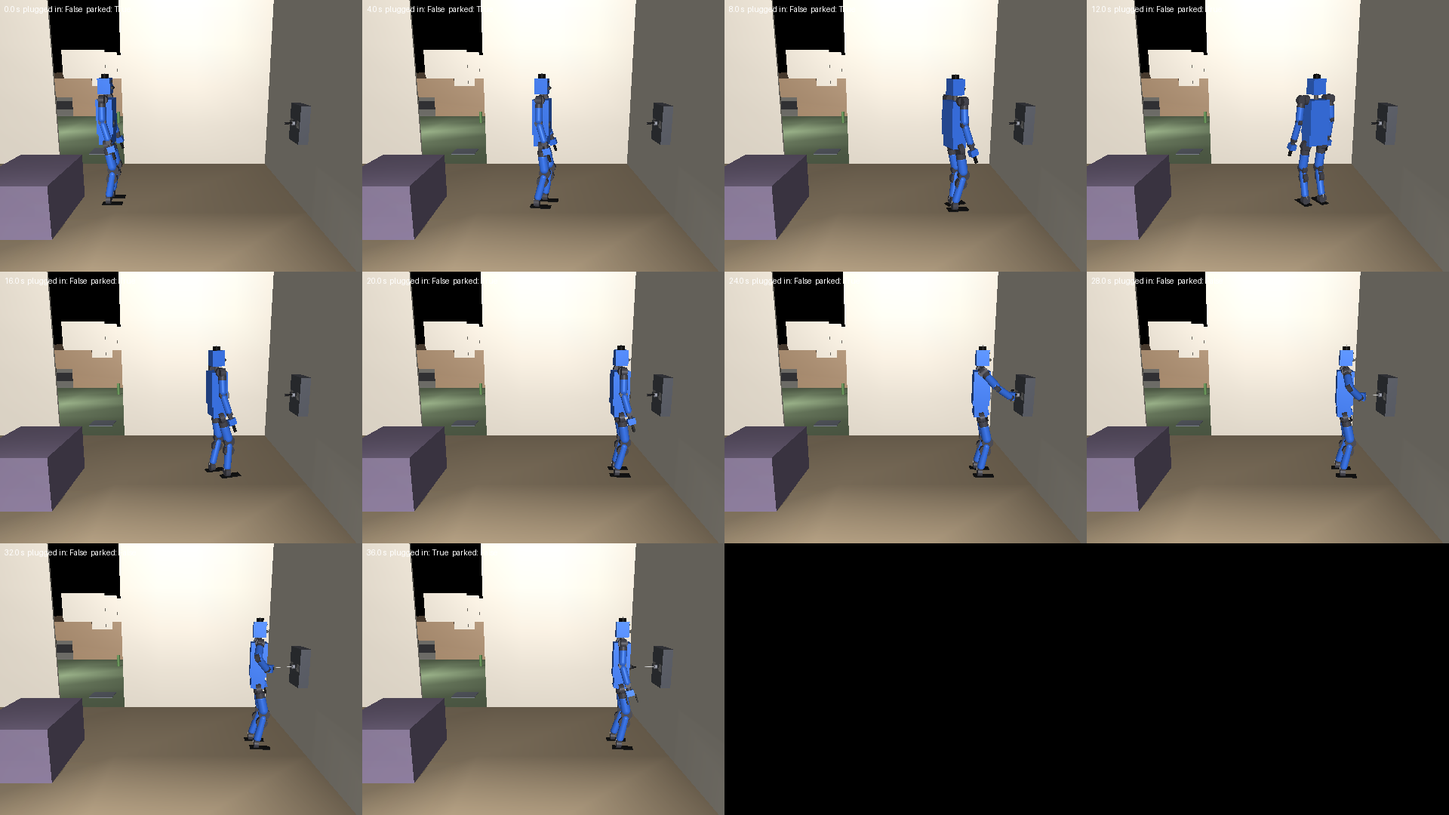
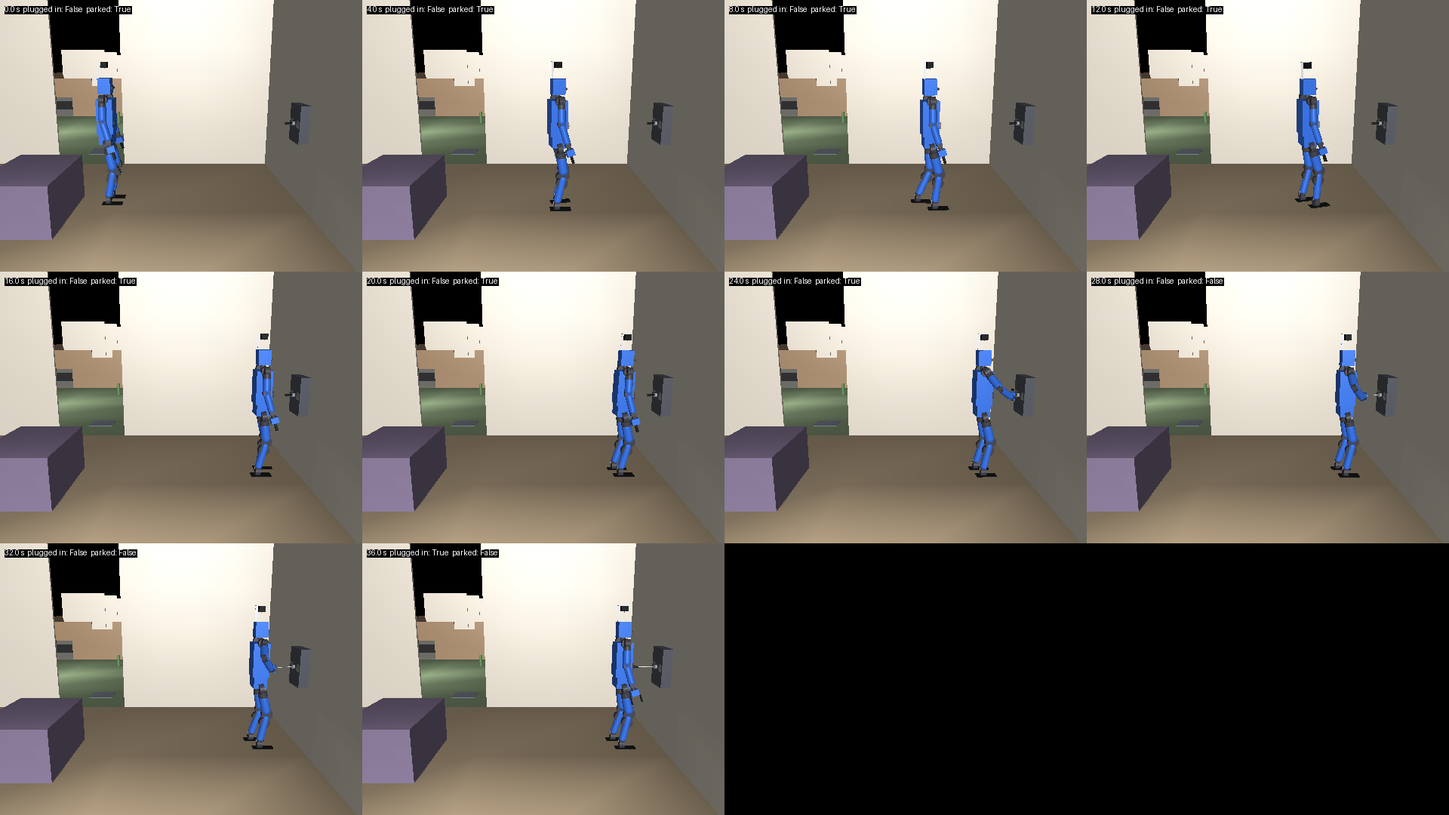
SimNotes, Observatory.md and CLAUDE.md: the station found from far off, measured -- 118 of 123 against staging's 14 from the same starts, 24 of 27 explored first against 2, a fall's get-up holding the belief, the heading at rest read before and after; the lost filmstrip redrawn and the far one found

diff --git a/CLAUDE.md b/CLAUDE.md
@@ -267,7 +267,7 @@ save a filmstrip PNG named after the script.
 | `scripts/grid_spike.py` | #558: what a robot's map costs as the world grows, at 1-4x today's cells (the bounds grown round the house), each scale its own process, through the humanoid's own code: each scan's, frame's and plan's work, the explore's mask and A*, the matcher's field, the wire's PNG, `world.npz`, memory, on #215's synthetic grid and the house laid by the robot's own senses; `--walks [SIM_S]` the humanoid pair walking #507's routes at each scale; `--scales`, `--repeat`, `--no-table`, `--out` |
 | `scripts/determinism_spike.py` | is the world the same world twice? N scripted days hashed, first divergence attributed to GPU / decoder / raycast; `--pair` (`--fall-at`, `--drain-at`); `--compare DIR`; `--resume-at T` flies a day against one saved and carried on in a new process (#345); `--no-economy`, `--sequential`, `--nthreads` |
 | `scripts/make_way_spike.py` | #415 on two legs (#559): the humanoid pair in the house on true-floor maps, one robot resting standing in a doorway and the other walking through it, one process a scene: the walk's end, the step aside (how far, how long, why it stopped), touches and falls; `--before` nobody asks, `--finished` the resting robot's day is over, `--scene A,B`, `--drift`/`--drift-walker` a map laid off the world, `--standing S`, `--near-field` |
-| `scripts/station_spike.py` | the humanoid's charging station (#559 stage 2; SimNotes "The humanoid's charging station"): `--approach [--n N] [--parallel P]` docked and unplugged or why not from seeded starts round the standoff, one process a trial; `--seats` started at 140 seats over what the seat check accepts: plugged in and unplugged or why not; `--lost [--n N]` a fresh robot 2 m out, its belief set 0.4-1 m wrong: the loop's charge path, its lost search and the fix; `--hold [--seconds S]` plugged in: the charger's watts against what it draws; `--fall` shoved over plugged in: the breakaway, the plug home, the robot up; `--walk-in [--explore 120,240]` explored, walked out to 8 places across the house on its own map, then the loop's own `go_charge`; `--view [plug\|fall\|lost]` in the viewer, looped (MUJOCO_GL unset); `--strip [plug\|fall\|lost]` its filmstrip, `station_spike.png` (`_fall`, `_lost`) |
+| `scripts/station_spike.py` | the humanoid's charging station (#559 stage 2; SimNotes "The humanoid's charging station"): `--approach [--n N] [--parallel P]` docked and unplugged or why not from seeded starts round the standoff, one process a trial; `--seats` started at 140 seats over what the seat check accepts: plugged in and unplugged or why not; `--lost [--n N]` a fresh robot 2 m out, its belief set 0.4-1 m wrong: the loop's charge path, its lost search and the fix; `--lost --far [--from near,house,street] [--n N] [--explore S]` its belief set 1-5 m and 5-20 deg wrong (#572), 2 m out, in the house's rooms and across the street, explored first or not, and how each charge ended (`--lost-table ROWS` its table again); `--reach` how far its head's camera and its colour imager read the station's tags, out of its face and off its axis, and the head's fit of the pair (#572 stage 3); `--hold [--seconds S]` plugged in: the charger's watts against what it draws; `--fall` shoved over plugged in: the breakaway, the plug home, the robot up; `--walk-in [--explore 120,240]` explored, walked out to 8 places across the house on its own map, then the loop's own `go_charge`; `--view [plug\|fall\|lost]` in the viewer, looped (MUJOCO_GL unset), `--lost-from P --lost-off X,Y,DEG` the lost scene from elsewhere, the camera over the robot; `--strip [plug\|fall\|lost]` its filmstrip, `station_spike.png` (`_fall`, `_lost`) |
 | `scripts/solve.py --feature drawer` | ladder A of #264 on the humanoid's hands (#559): a hand job (`--feature drawer\|door\|cube\|chest`: `open_drawer`, `open_door`, `place_cube`, `open_chest`) offered on the storeroom's counter, its prop drawn (`--draw K`) and set out, claimed, the reference's two procedures (`challenge/solutions.py`) run as the robot's, `done`, graded on the seam; a fresh humanoid on a fresh map from the station (`--from station\|store`, or `tour`: flight k from the next of eight places across the house), `--n` draws a process each (`--jobs`, `--into DIR`), `--view`, `--strip` (`--strip-out PATH`); filmstrip `solve.png` |
 | `scripts/board_png.py` | a whiteboard's ink as a PNG from the boards state file or a recording. ⚠ +lat is the viewer's LEFT, as in the site's `surfaces/board.ts`; the test pins it because every figure the quadruped's pen drew is symmetric |
 | `scripts/humanoid_spike.py` | the humanoid (#507; SimNotes "The humanoid body", "The humanoid stands, reaches and grasps", "The humanoid behind Body", "The humanoid walks", "The humanoid climbs, falls and gets up" and "One walker that sees the ground", Parts.md "The humanoid body"): `--view body` the body held up on a gantry in the house, each joint through its range, then the grippers; `--view stand` its standing policy shoved, crouching and bowing, `--view reach` a hand to a counter, a high shelf, a low shelf and the floor through `Body`, its get-up loaded, `--view grasp` a drawer's handle gripped and pulled, `--view pull` a locked handle pulled at `pull`'s most, 20 N, each way (#544), `--view bar` the `pull` verb on it at its most, back, up, forward and down (#547), `--view feel` 20 N staged at a held-out hand, what its arm and its whole body read (#547), `--view demo` the chest's knob on a counter found by its tag, reached and gripped through `Body`, `--view walk` living room to kitchen and back on its own map, `--view rough` the walker that sees the ground (not served) across doorsteps, paving, a slope and blocks, `--view stairs` it up the house's flight on its own map, round on the landing and down, `--view fall` shoved over three ways, its get-up taking each fall, `--view getup` up off its back, its front and its side (`--strip SCENE` the filmstrip, `--policy NPZ` another standing policy, `--getup-policy NPZ`); `--mass` beside the T2's published model, `--torque` held in our physics and the walking, the stairs and the get-up FLOWN, `--thermal`, `--energy`, `--sensors`; `--friction [--write]` its arm joints' friction calibrated in free air beside the sheets', kept in `models/humanoid_friction.json`; `--shove` the shoves it stands through, `--envelope` the reach flown floor to over the head, `--hold` a locked handle pulled harder, `--pulls` a hand pulling each of 14 ways at a counter's height until it falls, `--bar` the force move on the locked handle each way at 10 and 20 N (`--oracle` closed on its true force: the loop's floor), `--feel` what its arm and its whole body read of 20 N staged at the grip, still and swaying (#547), `--handover [N]` the walk's hand-over at a standstill through `step` (#544), `--demo-table [N]` the demo's set-outs flown through `Body`, `--track` / `--rough [NPZ,...]` the served and any walker asked each command on a bare floor / over a doorstep, paving, a slope and blocks (one that sees the ground on its own map), `--odometry` the leg odometry against the truth, `--climb [NPZ]` flights of five at each riser up and down on the ideal scan and its own map, `--fall [NPZ]` shoved over six ways standing, limp or getting up (how far it reaches lying: the fallen disc's, #580), in five places in the house, and from each bow a reach takes (#520), `--speed [SIM_S]` the real-time multiple of one humanoid and a pair, the same walks in the house (`--profile`); filmstrip `humanoid_spike.png` |
@@ -276,7 +276,7 @@ save a filmstrip PNG named after the script.
 | `scripts/hands_check.py` | #525's capability check: our procedure in the hands' vocabulary for the lid, a drawer, a door's lever and a cube placed (`evaluation.hands_check`), flown at each job's set-outs and graded by its own grader, the bar (6 of 8) written first: `--job J,..`, `--set-outs A-B`, `--jobs`, `--into DIR`, `--read DIR`, `--source JOB` the procedure and its length against the cap, `--view JOB [K]` a flight in the viewer, `--strip JOB [K]` its filmstrip `hands_check.png`; JOB may be a scene (`hands_check.SCENES`): `until`, the lid's lift stopped on its hand's height (#554); `watch`, on where its watch puts the knob (stage 2) |
 | `scripts/practice.py` | #493's graded practice: the mind (`--model`, the deployed by default; `$HF_TOKEN`) writes the humanoid's procedure for the lid, tries it from a fresh set-out, is shown how it ran and the world's grade, and writes again, up to `--attempts` (5) a chest, a fresh robot a chest; the hands' vocabulary (#525; #493's `--pull`, `--verb-tests` and `--path` arms retired, `run.vocabulary` saying which a row flew); `--chests`, `--held-out N` (the frozen commit's seed), `--acquire A-B` the KEPT protocol (practice first, `--until`, `--max-chests`, `--give-up-after`; `--kept FILE` a record's library), `--early-stop` once the bar is out of reach, `--notes` notes and a draft carried, `--no-measure` without the depth camera's `measure` (its own arm), `--unguarded` without a hand's move's stop condition (#554), `--unwatched` without `watch` (its stage 2), `--jobs`, `--into DIR`, `--no-picture`, `--read DIR` the per-task record and what the mind cost |
 | `scripts/lidar_spike.py` | the head's LIDAR (#581; SimNotes "The 3D LIDAR on the head" and "The band served"): `--hidden` what the robot's own body hides of a frame, standing and at each of the reach scene's holds; `--cost [--poses N]` ms a frame in the house, the level ring, the cloud and the band beside a D435 frame; `--probe [--variants ring,band]` #572's static probe on its model (does a scan pin the heading at each outdoor point); `--view` a walk across the street, its map from its points laid flat, the band's returns red and the level ring's blue (MUJOCO_GL unset); `--strip` its filmstrip `lidar_spike.png`. The drift, station and speed instruments fly the band as served (#581's stage 2) |
-| `scripts/humanoid_drift_spike.py` | #572's stage 2 (SimNotes "Where the humanoids get lost"): one humanoid flies the loop's explore, walks the loop's walks across the street to the storeroom and back, and charges; its belief against the truth, the error taken apart as it is made into the gyro's heading, the legs' position, the believed heading's, and the matcher's and the station's corrections, over the flight and by zone, beside the odometry alone and the legs alone; `--seed luca\|rowan\|K` the IMU's and joints' draws, `--start start\|hall`, `--explore S`, `--trips N`, `--rest S`, `--idle-at X,Y [--idle S]` stood idle there first, `--learned` its gyro's offset taken off its heading as a zero-rate update that had learned it would, `--no-charge`, `--out`; `--table RUN.json ...` runs side by side and by zone. The stage's other half is `station_spike.py --lost --far [--from near,house,street] [--n N] [--explore S]`: its belief set 1-5 m and 5-20 deg wrong, 2 m out, in the house's rooms and across the street, and how each charge ended; `--view lost --lost-from P --lost-off X,Y,DEG` (or `--strip lost`) its scene, the camera over the robot |
+| `scripts/humanoid_drift_spike.py` | #572's stage 2 (SimNotes "Where the humanoids get lost"): one humanoid flies the loop's explore, walks the loop's walks across the street to the storeroom and back, and charges; its belief against the truth, the error taken apart as it is made into the gyro's heading, the legs' position, the believed heading's, and the matcher's and the station's corrections, over the flight and by zone, beside the odometry alone and the legs alone; `--seed luca\|rowan\|K` the IMU's and joints' draws, `--start start\|hall`, `--explore S`, `--trips N`, `--rest S`, `--idle-at X,Y [--idle S]` stood idle there first, `--learned` its gyro's offset taken off its heading as a zero-rate update that had learned it would, `--no-charge`, `--out`; `--table RUN.json ...` runs side by side and by zone; `--falls [--fall-explore S]` shoved over six ways after an explore, a process each: how far its get-up moved it and its belief, and the belief's error as it fell, as it stood and after (#572 stage 3). The stage's other half is `station_spike.py --lost --far` |
 
 - **The body's training stack lives in `training/`, a uv project of its own** (#377, #507; `training/README.md`): the humanoid's tasks in `humanoid_train/` -- `Pluggy-Humanoid-Stand`, `-Walk`, `-Walk-Rough`, `-Walk-Seeing`, `-Walk-Seeing-Fine`, `-Stairs`, `-Getup`, `-Getup-Head` -- registered and exported by `quad_train`'s one entry point (`python -m quad_train.train <task>`; `python -m quad_train.export ... --task`, which records the joints it drives and their gains; the quadruped's tasks are at `quadruped-final`): mjlab 1.5.x (it pins `mujoco ~=3.10.0`, the served sim's), reading the body from `models/humanoid.{xml,json}` (`python -m pluggybot.humanoid.model` writes both; mjlab caps numpy below pluggybot's, so the two never share an environment). ⚠ Running a policy loads none of torch, jax, warp, onnx or mjlab: it reaches the served sim as an `.npz` that `quad_train.export` checks against its ONNX before writing, run by `humanoid/policy.py` in numpy. ⚠ The joint DRIVERS are MuJoCo's position-mode `dcmotor` (#385), the PD and the envelope in C, commanded as the RobStrides' FOC drivers are in MIT mode (`humanoid/drivers.py`): every command carries its gains — a policy's are its own, an arm's the default gains scaled by `ARM_GAIN_SCALE`, `limp()` holds nothing — so the policies and the arms share one body. The default gains are ONE definition, `actuator.driver_gains`, which `training/` reads from `humanoid.json`. `training/pod.sh` rents a GPU to train on, or CPUs to fly a batch (`create-cpu`), on Vast.ai through its CLI, or on Runpod over the REST API with `PROVIDER=runpod` (#510; `runpodctl pod create` needs a GraphQL-writable key); a pod's id says whose it is, and a card is picked by what a million steps cost (`training/README.md`). ⚠ The `vastai` CLI exits 0 when it is refused, and `destroy` says nothing under `--raw`: read the JSON and the instance, never the exit code. ⚠ On Runpod a POST to `/v1/pods` with an EMPTY body CREATES a pod: every field has a default.
 - ⚠ **A batch of flights runs on a rented pod's CPUs or under a memory cap, never bare on the dev box** (#469: six house worlds at once took it into swap and its desktop down overnight, 2026-10-06): `training/pod.sh create-cpu` → `setup-sim` (the commit, never the working tree) → `batch` with `--jobs` one under the share `setup-sim` reports (a Vast share is a hard quota) → `pull-batch`, then `delete`; locally, `systemd-run --user --scope -p MemoryMax=12G -p MemorySwapMax=0 ...`. A pool of flights gives each its own process (`maxtasksperchild=1`: a world dropped in a reused worker is held until the cycle collector runs), and results go under `~`, never `/tmp`, which a reboot wipes.
@@ -495,10 +495,17 @@ save a filmstrip PNG named after the script.
   behind the seat), straight across where that hand's way in is barred; the
   port read once the hand holds the plug. ⚠ A SQUEEZE ON A PLUG A CATCH
   HOLDS BEGINS AT 5 N: shut at once, the first pad pushed a seated plug off
-  its catch. ⚠ LOST, IT STEPS IN BY ITS LIDAR, NEVER ITS BELIEF
-  (`HumanoidBody.lost_routine`): to the wall 0.8 m ahead, looks round, steps
-  along the wall; a look that fits the station is a fix (`_fix_at`, the
-  anchor's too). ⚠ A SQUEEZE HOLDS THE PLUG ONLY AT THE JACK'S WIDTH
+  its catch. ⚠ LOST, IT LOOKS BY ITS HEAD'S CAMERA AND WALKS NEARER BY WHAT
+  IT SAW, NEVER BY ITS BELIEF (`HumanoidBody.lost_routine`, #572 stage 3;
+  SimNotes, "The station found from far off"): a look round where it
+  stands, then viewpoints outward from where it believes the station is (a
+  find's search), and seen, to `charge.NEAR_M` out of the station as the
+  look placed it (`charge.rough`); a look that fits it near (`near_fit`,
+  the colour imager's or within 1.6 m the head's) is a fix (`_fix_at`, the
+  anchor's too), ⚠ NEVER A FAR ONE: past 2 m the pair's facing reads up to
+  29 deg off. Searched too after walks that never got there (unless the other
+  robot stopped them), bounded by the pack; the walk itself is given 6 s a
+  metre of the straight line (`CHARGE_WALK_S_M`). ⚠ A SQUEEZE HOLDS THE PLUG ONLY AT THE JACK'S WIDTH
   (`PLUG_GAP_TOL_M`): wider is the station's boss, and the hand draws back
   along the plug and grips again. ⚠ THE UNPLUG LETS GO AT THE CUP'S MOUTH
   (`CUP_SHORT_M`): carried to the seat, the plug was driven into the boss
@@ -506,18 +513,17 @@ save a filmstrip PNG named after the script.
   (`step_routine`, #581's stage 2): the band's matcher at the station, its
   corrections walked as steps, stopped one 3.6 cm inside the seat, and the
   walker cannot back up so little. Measured: plugged in from 140 of 140 seats over the
-  seat check (110 before), unplugged 140 of them; 15 of 15 docked and
-  unplugged from round the standoff; 15 of 16 docked from across the house
-  (10 before); 16 of 16 with their belief set 0.4-1 m wrong (SimNotes),
-  and ⚠ 5 of 60 set 1-5 m and 5-20 deg wrong: ITS LOST SEARCH REACHES ABOUT
-  A METRE -- begun with the belief within 1.1 m it found the station 4 of 4
-  times, from 1.5 m or more 0 of 50 -- and a belief comes home past the
-  matcher's reach from in and beyond the middle street, the house's map then
-  refusing it every scan (#572 stage 2; SimNotes, "Where the humanoids get
-  lost"); with the band (#581's stage 2, after its review) 32 of 33 from
-  round the standoff, 48 of 52 with the belief 0.4-1 m wrong and 16 of 16
+  seat check (110 before), unplugged 140 of them; with the band (#581's
+  stage 2, after its review) 32 of 33 from round the standoff and 16 of 16
   from across the house, most misses a step 4-5 cm inside the seat, which
-  the walker cannot back off, one a search begun 0.94 m off; 339 W net; the reserve 18 Wh (17.5 before the Mid-360S's 6.2 W, #581).
+  the walker cannot back off (a dock that never got in goes again from the
+  standoff, once a charge, #572 stage 3); ⚠ ITS BELIEF SET 1-5 M AND 5-20
+  DEG WRONG, 118 of 123 docked and, explored first on a map laid through it,
+  24 of 27 (staging, the same starts: 14 and 2), every search begun within
+  5 m of the truth finding the station (107 of 107), and 8 of 40 begun
+  further off, across the street, running out of their 600 s outside the
+  house's south fence (#572 stage 3; SimNotes, "The station found from far
+  off"); 16 of 16 with it 0.4-1 m wrong; 339 W net; the reserve 18 Wh (17.5 before the Mid-360S's 6.2 W, #581).
 - **The humanoid's LIDAR is a Livox Mid-360S, upside down over its head,
   and its map is laid from its points laid flat** (#581; `perception/lidar.py`,
   `HumanoidSpec.lidar_rise`, `HumanoidMission._scan`/`maps`,
@@ -556,9 +562,10 @@ save a filmstrip PNG named after the script.
   the steepest rings turn past straight down onto the bearings behind, and
   a low box 2 m behind was cleared on 8 bearings of 9). ⚠ ITS RAYS LEAVE
   10 cm OVER THE HEAD'S TOP, 5 mm under the unit (cast from inside it, every
-  ray hit it). The level ring stays, for the lost search's wall ahead
-  (`HumanoidBody._wall_ahead`). ⚠ NO CUTOFF ON THE CAST: MuJoCo culls a
-  plane by its centre.
+  ray hit it). The level ring stays for the instruments and as the
+  Navigator's default scan; nothing the humanoid decides reads it since
+  #572's stage 3. ⚠ NO CUTOFF ON THE CAST: MuJoCo culls a plane by its
+  centre.
 - **A humanoid is told its own body and world** (#559 stages 3 and 5;
   `Menu.kinds`, `hands_procedure_rule`, `steps.served_hand_facts`;
   `tests/test_humanoid_words.py`; Overseer.md §8b): ⚠ ITS WORDS ARE THE ONLY

diff --git a/docs/SimNotes.md b/docs/SimNotes.md
@@ -3537,22 +3537,19 @@ tile every 1.5 s (`station_spike.py --strip plug`)](figures/humanoid_station.png
 ![Lost and found by its station: a humanoid 2 m out, its belief set 0.7 m
 nearer the wall than it is, walks to where it believes the standoff is
 (1.45 m off the station's face, the tags above its colour camera), sees
-nothing, steps in by its LIDAR, finds the tags, puts its belief right off
-them, and walks in again and plugs itself in, a tile every 4 s
-(`station_spike.py --strip lost`)](figures/humanoid_station_lost.png)
+nothing, looks round by its head's camera and sees the station, walks
+nearer by what it saw, puts its belief right off a look there, and walks
+in again and plugs itself in, a tile every 4 s (`station_spike.py --strip
+lost`)](figures/humanoid_station_lost.png)
 
 **Lost.** No tags in sight from the standoff the belief walked it to, the
 robot is lost (#476's rule), and the station, commissioned as the dock was,
-puts it right: facing where it believes the station is, it steps in until
-its LIDAR reads the wall 0.8 m ahead -- never by its belief, which is what
-is wrong; from viewpoints set on a belief 0.7 m off toward the wall, every
-look was further from the station than 1.07 m -- and looks ahead, 34 and 63
-deg either side (the camera sees 34.5 either side of its axis), turning to
-a lone tag of the two where it sees one, then from a step 0.5 m along the
-wall each way. A look that fits the station is a FIX (`HumanoidBody._fix_at`,
+puts it right: a look that fits the station is a FIX (`HumanoidBody._fix_at`,
 the same as `anchor_at_dock`'s): the belief moved, and past the matcher's own
 search the map laid on the old one dropped, and the loop's walk to the
-standoff goes again on it.
+standoff goes again on it. How it looks for the station is #572's stage 3
+("The station found from far off"): by its head's camera, never by its
+belief.
 
 **Measured** (`scripts/station_spike.py`, the house, one humanoid):
 
@@ -3565,7 +3562,7 @@ standoff goes again on it.
 | the loop's own walk and plug-in (`energy_spike.py`) | 345.2 W net into the pack (energy.json) |
 | the reserve (`energy_spike.py --reserve`) | 13.72 Wh over 44.62 m to the garden doorway, 307.6 mWh/m; carried 17.5 Wh |
 | `--walk-in`: a fresh humanoid explores 120 or 240 s, walks on its own map to each of 8 places across the house (the bedroom, hall, kitchen, workshop, garden and south garden; the lobby and lab across the street), and the loop's own `go_charge` takes it to the station | **docked 15 of 16**, each in 46-131 s, 10 on the first push; its belief 0.04-0.51 m off where it walked to (1.07 m at the lobby after 120 s, which docked on its third push), 0.01-0.42 m once docked, before the charge's own fix; no falls (10 of 16 before) |
-| `--lost`: a fresh humanoid 2 m out facing the station, its belief set 0.7 m wrong each way and 12 drawn 0.4-1 m off and up to 5 deg turned, the loop's own `go_charge` | **docked 16 of 16**: the 14 that saw no station searched and found it in 4-62 s, their fix putting the belief within 0.11 m; the two whose walks ended near enough docked as they were, their fix the charge's own |
+| `--lost`: a fresh humanoid 2 m out facing the station, its belief set 0.7 m wrong each way and 12 drawn 0.4-1 m off and up to 5 deg turned, the loop's own `go_charge` | **docked 16 of 16**: the 14 that saw no station searched and found it in 4-62 s, their fix putting the belief within 0.11 m; the two whose walks ended near enough docked as they were, their fix the charge's own (the search as it was then, stepping in by its LIDAR; by its head's camera, #572's stage 3, 15 of 16) |
 
 **What is not yet.** One walk-in in 16 pushed four times and the port took
 none: where the plug sits in the jaws still misses pushes now and then. The
@@ -3840,26 +3837,16 @@ from the south garden, outside the very wall the station hangs on (the
 figure), 10 from elsewhere in the living room, 10 from the east garden, and
 the rest from the bedroom and the sidewalks and streets.
 
-**What is true now.** Indoors the humanoid's belief holds within 0.1-0.3
-m: its LIDAR fixes every direction there, and the matcher takes off its
-gyro's offset, whatever it is, and its legs' 0.2-2 cm a metre. Outdoors its
-LIDAR sees the buildings' walls alone -- along the sidewalks one at a time,
-the matcher holding the direction along it to odometry, and in the middle
-street none -- and its belief comes home off by more than the matcher's
-search there three ways: walking along the facility's outer walls, a
-heading carried across the street, and standing still where nothing is
-matched; and anywhere, a fall, whose get-up its odometry walks. Back in
-the house, the map refuses it every scan and nothing puts it right but the
-station, whose lost search finds it only from within about a metre; from
-across the street the charge's walks run out of time first.
-
-**Not done** (#572's stage 3, and its stage 4): a search that finds the
-station from further off than a metre, and a charge's walk given the time
-a walk across the street takes; walks to the facility that go in by its
-gates, or a station there (#560's in the research center); the heading held
-while the robot stands where nothing is matched (a zero-rate update, as
-the quadruped's while it lies); its odometry held while a get-up has its
-legs; and why the wide search took back none of them.
+**What was true then, on the C1.** Indoors the belief held within 0.1-0.3
+m, the matcher taking off the gyro's offset and the legs' 0.2-2 cm a metre;
+outdoors the LIDAR saw the buildings' walls alone, and the belief came home
+past the matcher's search by walking along the facility's outer walls, a
+heading carried across the street, standing where nothing was matched, or a
+fall whose get-up its odometry walked; the lost search found the station
+only from within about a metre. What is true now: #581 gave the LIDAR the
+fences (29 of 30 drift flights docked, "The band served"), and #572's stage
+3 gave the search its head's camera, held the odometry through a get-up and
+the charge's walk its time ("The station found from far off").
 
 ## The 3D LIDAR on the head (issue #581, stage 1)
 
@@ -4346,11 +4333,165 @@ head's dearer drawer, door and chest, as its rule says.
 
 **Not done.** A far fence's intermittent ring (above); the walker's seat
 (above); and #581's live reading, a day of the pair with neither robot
-lost outdoors, which opens with the deploy (Observatory.md). #572's
-stage 3 should read this one: a bowed robot's scans now count, so its
-heading at a counter is held by the matcher, and a zero-rate update may be
-needed only where nothing is matched. The world's height map as the store,
-which the grid becomes a projection of, is its own issue.
+lost outdoors, which opens with the deploy (Observatory.md). The world's
+height map as the store, which the grid becomes a projection of, is its
+own issue. (#572's stage 3 read this one for the heading at rest: no
+zero-rate update is needed, "The station found from far off".)
+
+## The station found from far off (issue #572, stage 3)
+
+**What is true now.** A humanoid that does not find its station where its
+belief puts it -- none in sight from the standoff, or no walk there got
+there -- looks for it by its head's camera and walks nearer by what it saw
+(`HumanoidBody.lost_routine`): a look round where it stands, then
+viewpoints outward from where it believes the station is, and once seen,
+to a metre out of the station as that look placed it, where a look fits it
+near enough to put the belief right (`_fix_at`). Its belief set 1-5 m and
+5-20 deg wrong -- 2 m out, from the house's six rooms and across the street
+-- it docked 118 of 123 (staging, from the same starts, 14); explored
+first, laying its map askew through that belief, 24 of 27 (staging 2).
+Begun within 5 m of the truth, its search found the station 107 times in
+107. The walk to the station is given the time its length takes, a dock that
+saw the station and never got in goes again, and a fall's get-up walks no
+belief. The heading needs no hold at rest: with the band, Rowan's draws
+stood 180 s in the middle street and their heading moved 0.1 deg (9 on the
+C1).
+
+![Found from behind its station's wall: a humanoid 2 m out, its belief set
+2 m and 12 deg wrong (stage 2's figure, "Where the humanoids get lost"),
+walks to where it believes the standoff is -- truly the south garden,
+outside the station's own wall -- looks round and searches the garden's
+viewpoints round where it believes the station is, comes in by the garden
+door at about 150 s, sees the station, walks nearer by what it saw, puts
+its belief right (1.7 m and 11 deg) and plugs itself in at 209 s, a tile
+every 16 s (`station_spike.py --strip lost --lost-from station --lost-off
+-1.606,-1.192,12`, every other tile)](figures/humanoid_station_far_found.png)
+
+**What its cameras read of the station** (`station_spike.py --reach`: set
+out of the station's face and off its axis, facing it, a decode of each
+camera; the belief is the truth there, so what is measured is the look).
+The colour imager the dock looks by reads the pair within 1 m and nothing
+past 1.25 m -- the tags rise out of its view -- and it was all the search
+had: from 1.5 m off and further it found the station 0 times in 43 (stage
+2). The head's navigation camera, pitched for the walls' signs, reads both
+60 mm tags square-on from 0.8 m to 4.5 m, one from 30 deg off the station's
+face to 5 m (the parked plug hides the far tag from about 20 deg), and
+from 50 deg only within 1.5 m:
+
+| out of the face | tags the head's camera read, 0 / 15 / 30 / 50 deg off its axis | the pair fitted off them: its facing, its place |
+|---|---|---|
+| 0.8-1.0 m | 2 / 2 / 2 / 1-2 | within 0.7 deg, 8 mm |
+| 1.25-1.5 m | 2 / 2 / 1 / 1 | within 1.9 deg, 10 mm |
+| 2-2.5 m | 2 / 2 / 1 / 0 | 1.0-5.5 deg, 7-54 mm |
+| 3-4.5 m | 0-2 / 0-2 / 1 / 0 | 0.6-28.6 deg, 7-61 mm |
+| 5 m | 0 / 0 / 1 / 0 | |
+
+A far look says where the station is to a few centimetres and which way
+it faces to tens of degrees: the pair is 18 cm across, and a centimetre of
+range between its two tags turns it 3 deg.
+
+**The search** (`charge.LOST_*`, `NEAR_*`):
+
+- *A look round where it stands*, a decode every 60 deg (the places'
+  look-around, `humanoid.places`): lost within a room of it, the robot sees
+  the station from there.
+- *Then viewpoints outward from where it believes the standoff is*, over
+  its own map, the nearest by the walk first, a look round at each, its
+  walks stopping as soon as a decode shows a tag (`next_viewpoint`, the
+  find's search; `HumanoidPlaces.see_station` notes every look of the head
+  that shows one). An askew belief puts the station's believed place in
+  another room or the garden, and the true one a walk or two away. ⚠
+  ROUND THE STATION'S BELIEVED PLACE, NEVER ROUND THE ROBOT: lost 5 m away,
+  a search round itself walks off from the station.
+- *Seen, nearer by what it saw* (`_near_station_routine`): to `NEAR_M` (1
+  m) out of the station as the newest look placed it (`charge.rough`: the
+  pair fitted, or one tag where it is and facing as its own rotation says,
+  either never more than 60 deg off the way it was seen from), facing it,
+  and a look of the colour imager and of the head's camera. ⚠ NEVER A FIX
+  OFF A FAR LOOK: put right 20 deg wrong, the robot lays its map askew
+  again. A look that fits the station there -- the colour imager's, or the
+  head camera's with both tags within 1.6 m (`near_fit`) -- is the fix.
+- *Bounded*: `LOST_PATIENCE_S` (600 s), or the pack empty
+  (`HubLifecycle._search_routine`); seen and never near after two rounds of
+  four tries, it says so (`seen, never near`).
+
+**Walks that never got there, and their time** (`HubLifecycle.
+go_charge_routine`). Five of stage 2's lost flights never searched, their
+walks to where they believed the standoff was finding no route through a
+map laid askew: two walks that gave up anywhere are a robot lost too,
+searched for once from where they ended, unless the other robot stopped
+them. The walk itself is given 6 s a metre of the straight line, at least
+the 90 s it had (`CHARGE_WALK_S_M`): home from the storeroom, 22 m in a
+straight line, #581's drift flights walked 70-82 s and up to 117. And a
+dock that saw the station and never got in goes again from the standoff,
+once a charge: 6 of the 117 stations found in the first sweep were never
+got in, the walker's step 4-5 cm inside the seat, which it cannot back off
+(#581, "The band served").
+
+**A fall** (`HumanoidMission._after_physics`; `humanoid_drift_spike.py
+--falls`: shoved over six ways, 300 N for 0.3 s, after a 120 s explore). The
+odometry stepped while the get-up policy had the legs, following a
+tumbling body's feet: a fall walked the belief 1.7-2.1 m in stage 2's
+flights and Luca's 3.7 m live, past the wide search's 2 m. It is held
+through the get-up, and stood, its planted foot is read afresh -- the foot
+planted before the fall counted the whole get-up's move at once. Luca's
+draws in the workshop and Rowan's in the garden, staging's code and this
+stage's, 9 of 12 stood each (three wedged in the workshop and the garden
+were still getting up at 40 s, on either):
+
+| | staging | the odometry held |
+|---|---|---|
+| the body moved during the get-up | 0.20-1.33 m | the same |
+| the belief moved during the get-up | 0.47-2.10 m | 0.00 |
+| the belief off as it stood | 0.49-2.39 m | 0.07-1.58 |
+| 5 s on | within 0.09 m | within 0.07 |
+
+What a held belief is off by as it stands is what the get-up moved the
+body and what the stagger before the fall left (the legs track a stagger
+under a shove only to 0.1-1.0 m); the matcher's searches took every one
+back within 5 s, the wide search the furthest (`relocated`). Held, the
+belief can be no further off than the fall carried the body; walked, it
+went 3.7 m live.
+
+**The heading at rest, read before and after** (stage 2 asked for it to be
+read first). Rowan's draws stood 180 s in the middle street: on the C1 its
+heading went from +0.4 to +9.2 deg -- its gyro's offset, nothing matched --
+and its next walk passed the facility's gate a metre off and ended 6.2 m
+off. With the band (staging 44f28e4) it went from -0.06 to +0.08 deg,
+every scan matched, and both its flights docked; with the offset taken off
+(`--learned`), 0.81 to 0.81. The band's matcher takes the offset off
+wherever it stands, bowed at a counter too: no zero-rate update.
+
+**Measured** (`station_spike.py --lost --far`, flown on Vast CPU pods, each
+trial a process; staging is 44f28e4, both with the workshop's start moved
+off its table -- stage 2's put the robot inside it):
+
+| | staging | this stage |
+|---|---|---|
+| belief 1-5 m and 5-20 deg wrong: 2 m out (15), the house's six rooms (72), across the street (36) | **14 of 123** docked; 5 never searched, their walks out of time | **118 of 123**; every station found was plugged into |
+| ...explored 120 s first, its map laid through the wrong belief: the rooms (18), across the street (9) | **2 of 27** | **24 of 27** |
+| found, where the search began within 5 m of the truth | 15 of 103 | **107 of 107** |
+| ...where it began 5 m and more off | 0 of 38 | 32 of 40 |
+| the search, when it found the station | median 33 s | median 96 s; 9 in 10 within 242 s |
+| the whole charge, when it docked | median 93 s | median 175 s; 9 in 10 within 381 s |
+
+The drift batch (`humanoid_drift_spike.py`, #572's 14 flights and #581's
+16 more seeds) docked 30 of 30 (#581's review: 29); its beliefs are those
+flights' to the millimetre until the charge, the code unchanged before it.
+The one #581 lost, Rowan's draws on their second walk home, found no route
+to the standoff again; this time it searched, found the station in 58 s
+and docked. The station's own batches: from round the standoff 14 of 15
+(the dock alone, unchanged: one never lined up), its belief 0.4-1 m wrong
+16 of 16 (each search found it in 4-50 s; staging after #581's review, 13),
+from across the house 16 of 16.
+
+**Not done.** What the search does not reach is a robot lost 5 m and more
+off across the street: its walk home ends outside the house's south fence,
+in the street or on its sidewalk, and 8 such searches in 40 ran out of their
+600 s there (or out of viewpoints, once). Stage 4's station in the research
+center would put a robot right before it crossed back, and is Ben's call on
+this reading. The walker's seat (#581) is what is left of a charge from its
+standoff.
 
 ## Debugging workflow that worked
 

diff --git a/docs/Observatory.md b/docs/Observatory.md
@@ -10,6 +10,49 @@ observatory is NOT a result: it reports into the issue it informs.
 
 ## Periods
 
+### A lost robot looks for its station by its head's camera, and a fall walks no belief (#572, stage 3) — opens when this PR is deployed
+
+**What changed in the world.**
+- **A robot that does not find its station where its belief puts it looks
+  for it by its head's camera** -- round where it stands, then outward from
+  where it believes the station is -- and walks nearer by what it saw until
+  a look near the station puts its belief right. Before, it stepped in
+  toward where it believed the station was and looked with the colour
+  imager, which found it only within about a metre.
+- **Two walks to the station that never got there are a robot lost too**:
+  it searches from where they ended, once a charge (never where the other
+  robot stopped them). The search runs until it finds the station, 600 s,
+  or an empty pack.
+- **A walk to the station is given 6 s a metre of the straight line to it**,
+  at least the 90 s it always had.
+- **A dock that saw the station and never got in goes again from the
+  standoff**, once a charge.
+- **A fall's get-up walks no belief**: the odometry holds while the get-up
+  has the legs, and counts from the foot it stands on once up.
+- **History says a loss in other words**: "I did not find my charging
+  station where I believed it was, so I may not be where I thought, and I am
+  looking round for it" (it said "...was not in sight where I believed it
+  was in front of me, so I am not where I thought, and I am looking for it
+  from nearer"), and a search that saw the station and never got near it
+  says so.
+- **The `drift` rows**: a `searched` row carries `arounds`, and its `ended`
+  may be `out of time` or `seen, never near` beside `found`, `not found`
+  and `interrupted`; a `lost` row may follow walks that never got there.
+- Nothing in the prompt, the schema, the arm or the reward table moved.
+
+**Why.** #572's stage 2: lost past a metre, the search found the station 0
+times in 43, and from across the street the charge's walks ran out of time
+first; and a fall's get-up walked Luca's belief 3.7 m live. Flown (SimNotes,
+"The station found from far off"), its belief set 1-5 m and 5-20 deg wrong:
+118 of 123 docked (staging, 14); explored first, 24 of 27 (staging, 2); the
+drift batch 30 of 30.
+
+**What the period is for.** #572's last box: a day of the pair, every charge
+found, each map corrected there -- off the `drift` rows (`lost`, then
+`searched` with how it `ended`, and its `fixed`), the charges and the
+falls. ⚠ It opens with #581's periods if they deploy together: read it
+against the one before them all, the level ring's.
+
 ### The map laid from the LIDAR's points laid flat (#581, stage 2) — opens when this PR is deployed
 
 **What changed in the world.**
